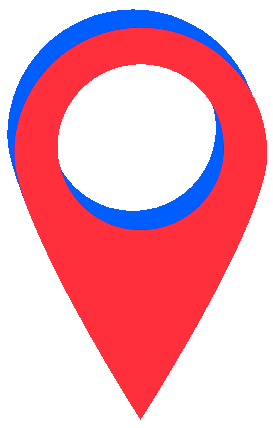
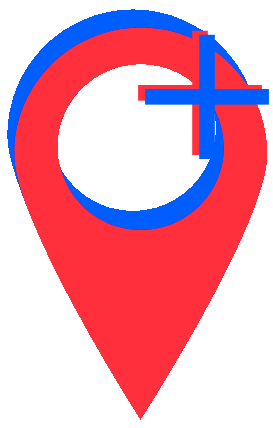
added createEvent onTap()

Changed region(s): [[0.4982, 0.0607, 0.9963, 0.3949]]

diff --git a/lib/bottomNavigation/_event_map.dart b/lib/bottomNavigation/_event_map.dart
@@ -1,8 +1,10 @@
 import 'dart:async';
+import 'dart:typed_data';
 import 'package:cloud_firestore/cloud_firestore.dart';
 import 'package:firebase_database/ui/utils/stream_subscriber_mixin.dart';
 import 'package:firebase_storage/firebase_storage.dart';
 import 'package:flutter/material.dart';
+import 'package:flutter/services.dart';
 import 'package:flutter/widgets.dart';
 import 'package:flutter_application_mobile_app_dev/_planiant_Event_Detail_Screen.dart';
 import 'package:flutter_application_mobile_app_dev/data/_firebase_planiant_event.dart';
@@ -13,6 +15,7 @@ import '../_create_event_button.dart';
 import 'package:geolocator/geolocator.dart';
 import 'package:location/location.dart';
 import 'package:map_controller/map_controller.dart';
+import 'dart:ui' as ui;
 
 import '../_db.dart';
 import '_create_planiant_event.dart';
@@ -51,7 +54,7 @@ class MapSampleState extends State<PlaniantEventMap> {
 
   /// Create Event LatLng
   LatLng createEventLatLng;
-  bool _isVisible = false;
+  BitmapDescriptor addPlaniantEventMarker;
 
   /// Do this when init
   @override
@@ -67,8 +70,14 @@ class MapSampleState extends State<PlaniantEventMap> {
         ImageConfiguration(size: Size(3, 3)),
         'assets/images/planiant_Event_Marker.png');
 
+    /// TODO add Event Icon
+    var addPlaniantEventMarkerIcon = await BitmapDescriptor.fromAssetImage(
+        ImageConfiguration(size: Size(3, 3)),
+        'assets/images/create_Planiant_Event_Marker.png');
+
     setState(() {
       this.planiantEventIcon = planiantEventMarkerIcon;
+      this.addPlaniantEventMarker = planiantEventMarkerIcon;
     });
   }
 
@@ -170,21 +179,16 @@ class MapSampleState extends State<PlaniantEventMap> {
       GoogleMap(
         onTap: (latLng) {
           MarkerId markerId = MarkerId('123456789');
-
           final Marker marker = Marker(
             markerId: markerId,
-            icon: planiantEventIcon,
+            icon: addPlaniantEventMarker,
             position: latLng,
-            infoWindow: InfoWindow(
-              title: 'Create Event',
-              snippet: 'Tap here to turn up',
-              onTap: () {
-                Navigator.push(
-                    context,
-                    MaterialPageRoute(
-                        builder: (context) => CreatePlaniantEventForm(latLng)));
-              },
-            ),
+            onTap: () {
+              Navigator.push(
+                  context,
+                  MaterialPageRoute(
+                      builder: (context) => CreatePlaniantEventForm(latLng)));
+            },
           );
 
           setState(() {
@@ -202,22 +206,8 @@ class MapSampleState extends State<PlaniantEventMap> {
         },
         myLocationEnabled: true,
         markers: Set<Marker>.of(markers.values),
+        indoorViewEnabled: false,
       ),
-      Visibility(
-        visible: _isVisible,
-        child: Positioned(
-          child: ElevatedButton(
-            child: Text('Create Event'),
-            onPressed: () {
-              print('ola');
-            },
-          ),
-          bottom: 30,
-          left: 25,
-          height: 50,
-          width: 250,
-        ),
-      )
     ]);
   }
 
